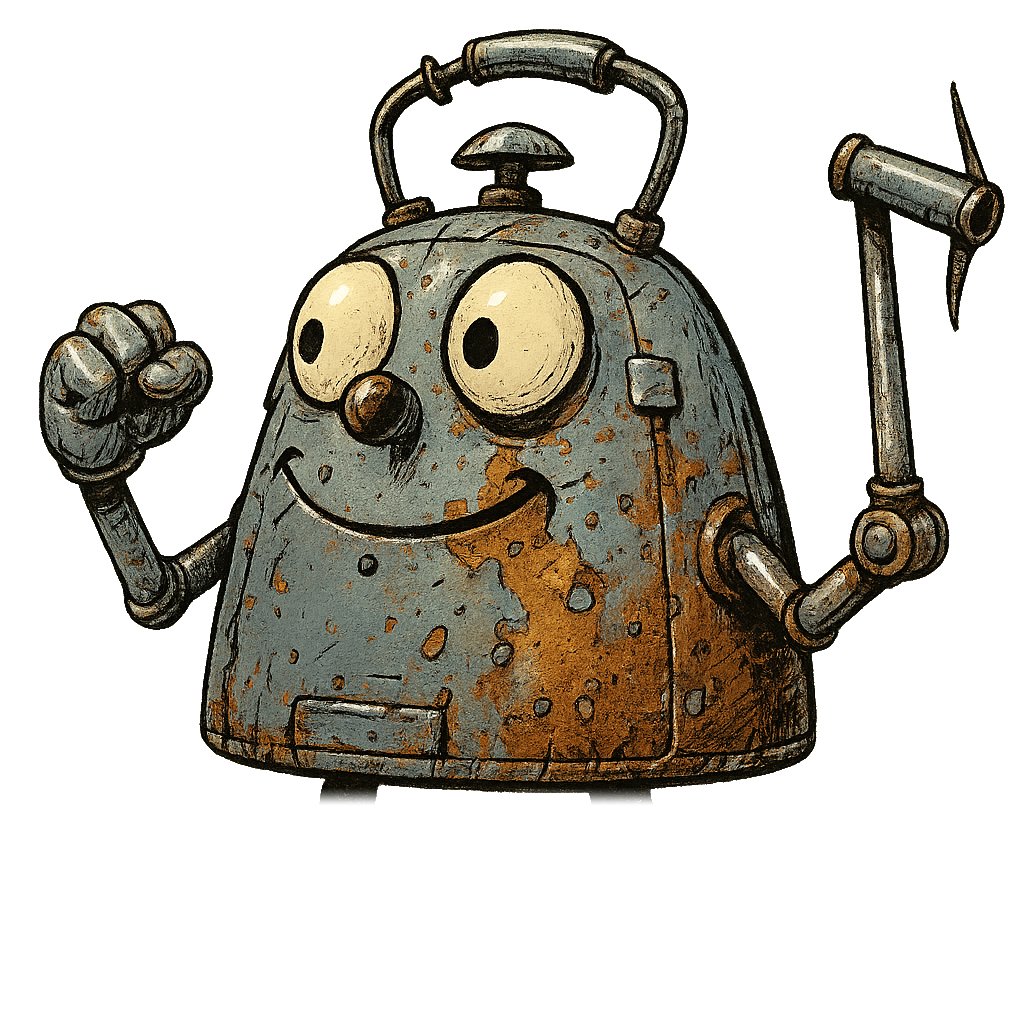
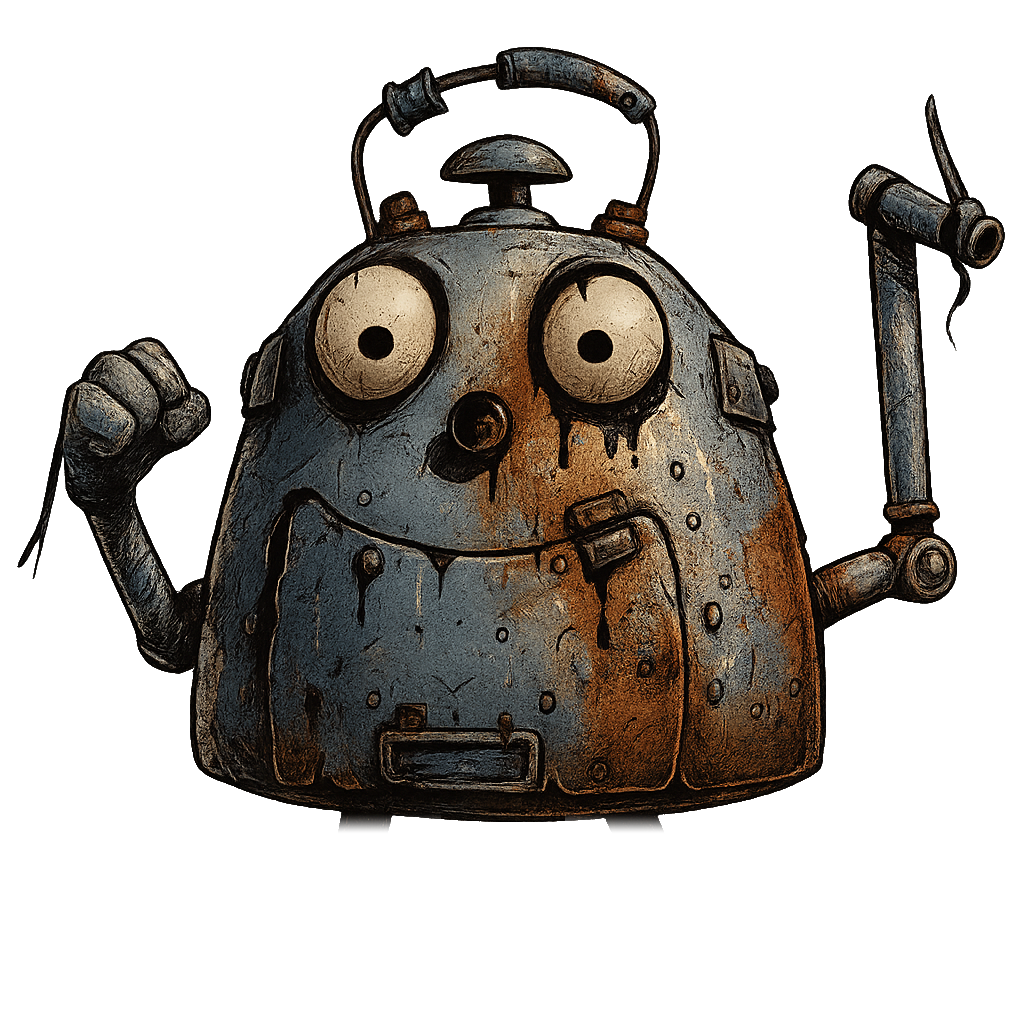
Grimey: near-faithful portrait regen (input_fidelity=high), slight turn

diff --git a/tools/cut_front_biped.py b/tools/cut_front_biped.py
@@ -103,16 +103,15 @@ CONFIGS = {
     },
     "grimey": {
         "title": "Grimey",
-        # portrait faces dead-on with a planted-wide pose; generated 3/4 view turned
-        # left, neutral stance. Ink ground-shadow scribble is clipped via "floor".
+        # near-faithful regen of the portrait (input_fidelity=high), only slightly turned
+        # left, ground shadow removed
         "source_local": True,
         "alpha": 110,
-        "floor": 928,  # below this row, keep only pixels inside the leg polygons
         "parts": {
-            "leg_l": {"poly": [(180, 784), (450, 784), (450, 930), (441, 954), (180, 954)],
-                      "top": 786, "cut": 806, "pivot": (348, 796)},
-            "leg_r": {"poly": [(515, 784), (755, 784), (755, 971), (532, 971), (522, 940)],
-                      "top": 786, "cut": 806, "pivot": (622, 796)},
+            "leg_l": {"poly": [(195, 812), (440, 812), (440, 960), (195, 960)],
+                      "top": 812, "cut": 834, "pivot": (362, 824)},
+            "leg_r": {"poly": [(565, 812), (805, 812), (805, 960), (565, 960)],
+                      "top": 812, "cut": 834, "pivot": (634, 824)},
         },
         # sneaky henchman: quick, low, shifty scuttle
         "scene": {"move_speed": 60, "left_bound": 120, "right_bound": 840, "steps_per_sec": 2.2,
